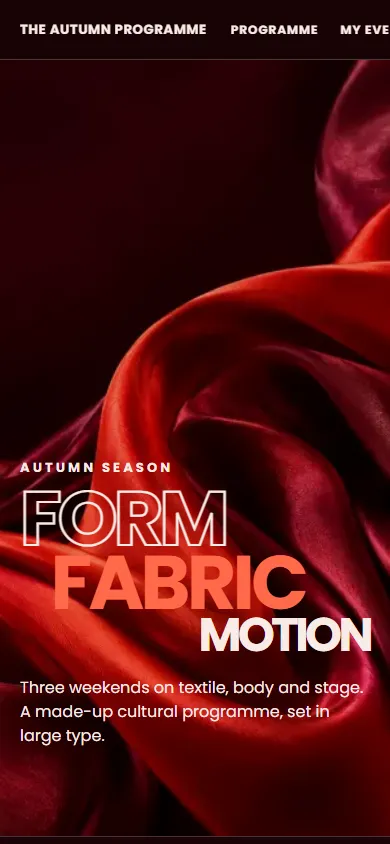
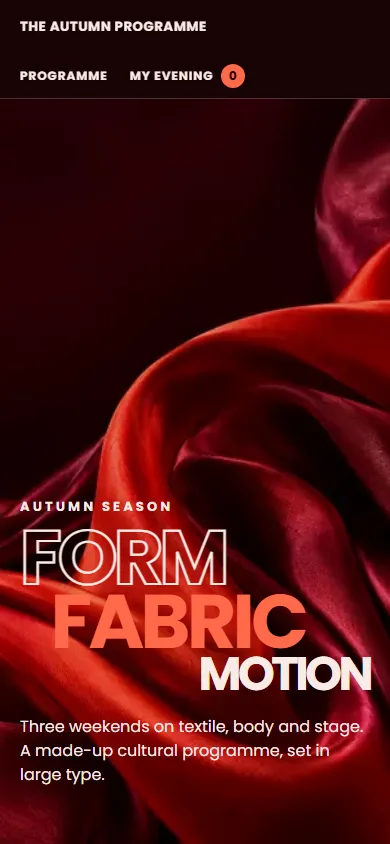
Seventh demo header on phones, typographic previews, docs

diff --git a/src/public/styles/_concepts.scss b/src/public/styles/_concepts.scss
@@ -1180,6 +1180,23 @@ $desk: 960px;
       gap: 6px;
     }
 
+    // Phones: the name on the first row (beside the close button), the links on a row below it.
+    @include phone {
+      flex-wrap: wrap;
+      gap: 0 8px;
+
+      .cx-ty__mark {
+        display: flex;
+        align-items: center;
+        min-height: 54px;
+      }
+
+      nav {
+        flex-basis: 100%;
+        margin-left: -8px;
+      }
+    }
+
     a {
       display: inline-flex;
       align-items: center;

diff --git a/docs/RESTYLE-PUBLIC.md b/docs/RESTYLE-PUBLIC.md
@@ -345,3 +345,15 @@ Specifica: `MambyLy_Corrections_Menu/` (non pubblicato) e le correzioni successi
   "Vrid telefonen…"; esce con pulsante, Escape, uscita del browser dal fullscreen e Indietro; focus restituito.
 - **Metodo**: una sola schermata (titolo, introduzione, anteprima nella lingua corrente accanto ai tre passaggi,
   una frase sulle possibilità, una nota, una CTA verso il wizard con contesto `site`). Nessuna scelta.
+
+## Fase 9: settima demo, titolo del ristorante, materiali dei biglietti
+
+- **Settima demo**: `Typographic.tsx` (concept tipografico rosso, foto `site-typographic`, dalla versione
+  d0e8100) di nuovo in galleria come "Typografiskt koncept" / "Typographic concept", slug
+  `typografisk` / `typographic`, immersiva come le altre; programma fittizio rinominato "Höstprogrammet".
+- **Ristorante**: la parola di categoria sta intera sopra la foto (altezza fissa, nessun salto tra le
+  categorie); gli scatti non permettono uno scontorno pulito del piatto, quindi niente sovrapposizione.
+- **Biglietti**: un materiale SVG per design su tutta la superficie, fronte e retro (`$m-*` in
+  `_card-designs.scss`, generati da rilievo con luce diffusa, fibre, satinatura o grana opaca).
+- **Contatti**: `contactSubmit.ts` incorpora solo le tre variabili che usa. Per i test locali compilare con
+  `VITE_API_BASE_URL=https://execute-api.invalid` (mai la build di produzione dietro un mock).
